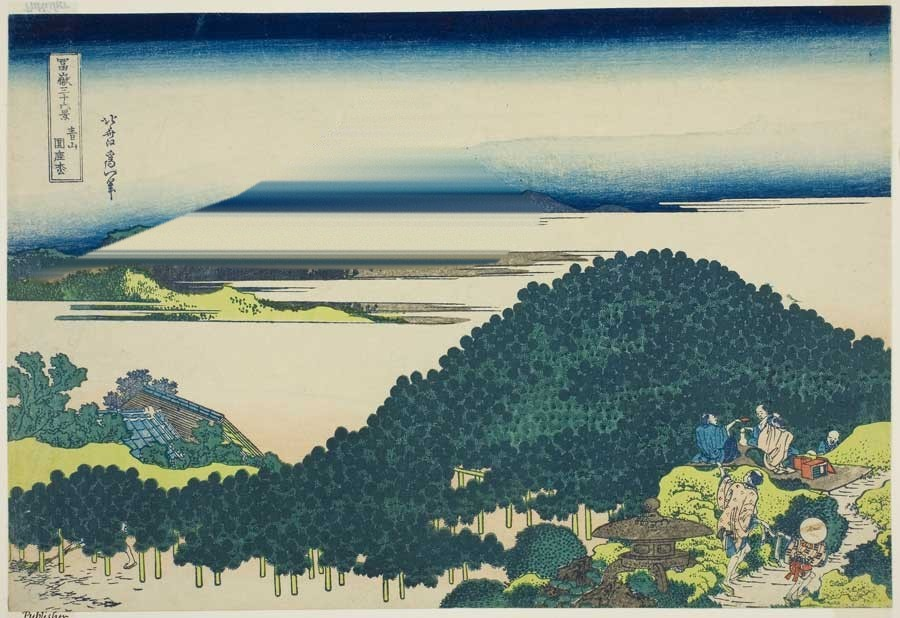
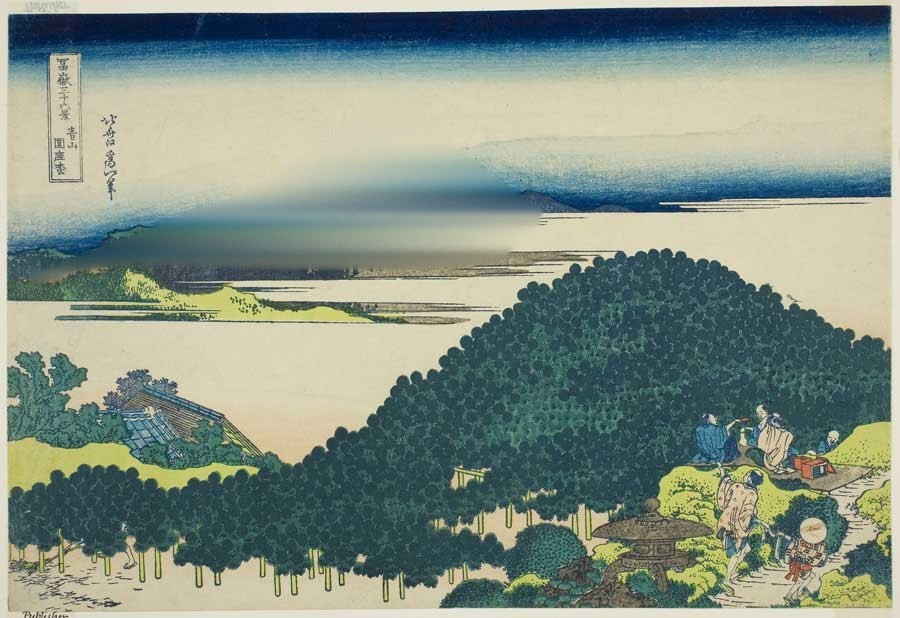
青山円座松の富士山なし画像を作り直し
富士山を消した跡に横すじと、斜面の形をした濃い藍色の帯が残っていた。
空の部分は富士山の左側の空を参照し、右側の境目へ色をなじませ、縦方向にもぼかす。

Claude-Session: https://claude.ai/code/session_01UXdYbpsJYGWvzPKtDgyYVM

Changed region(s): [[0.0933, 0.2767, 0.6222, 0.4304]]

diff --git a/tools/make_nofuji.py b/tools/make_nofuji.py
@@ -33,6 +33,7 @@ ROOT = Path(__file__).resolve().parent.parent
 #   tile:   [x0, x1, y1, ywrap] 空だけが写っている四角の模様を繰り返して埋める
 #           （富士山が画面の大半を占める図）
 #   extra:  ほかに消す多角形のリスト（湖に映った逆さ富士など）
+#   vbands: {"x": [x0, x1], "bands": [[y0, y1, x0, x1], ...]} 行の範囲ごとに参照する列を変える vref
 #   vref:   [x0, x1, (tol), (ymax)] 富士山の横の背景の列を、行ごとに延ばして埋める
 #   side:   "left" / "right" 片側の背景色だけで埋める（左右で背景が違う図）
 #   protect: 消さない多角形のリスト（手前の木の幹など）
@@ -51,7 +52,7 @@ OVERRIDES = {
     "umezawa": {"base": [[0.21, 0.50], [0.35, 0.50], [0.48, 0.48], [0.55, 0.45], [0.60, 0.39], [0.65, 0.34], [0.72, 0.31], [0.82, 0.30]]},
     "totomi": {"base": [[0.217, 0.56], [0.23, 0.60], [0.27, 0.60], [0.301, 0.57]]},
     "mishima": {"protect": [[[0.515, 0.0], [0.630, 0.0], [0.630, 1.0], [0.515, 1.0]]], "join": [1, 2], "base": {1: [[0.585, 0.39], [0.585, 0.52], [0.66, 0.52], [0.74, 0.50], [0.88, 0.515]]}},
-    "aoyama": {"vref": [0.64, 0.70], "base": [[0.04, 0.44], [0.15, 0.42], [0.30, 0.43], [0.45, 0.43], [0.55, 0.42], [0.596, 0.36]]},
+    "aoyama": {"vbands": {"x": [0.56, 0.59], "bands": [[0.0, 0.39, 0.16, 0.22]], "blur": 4, "tol": 400}, "base": [[0.04, 0.44], [0.15, 0.42], [0.30, 0.43], [0.45, 0.43], [0.55, 0.42], [0.596, 0.36]]},
     "enoshima": {"base": [[0.79, 0.53], [0.82, 0.545], [0.88, 0.55], [0.92, 0.535]]},
     "gotenyama": {"base": [[0.415, 0.445], [0.43, 0.455], [0.47, 0.46], [0.50, 0.455]]},
     "hakone": {"base": [[0.15, 0.41], [0.20, 0.425], [0.25, 0.43], [0.30, 0.415]]},
@@ -193,13 +194,17 @@ def fill_tile(img, mask, x0, x1, y1, ywrap):
     return out
 
 
-def fill_vref(img, mask, x0, x1, tol=110.0, ymax=None, sample=4):
+def fill_vref(img, mask, x0, x1, tol=110.0, ymax=None, sample=4, bands=None):
     """マスクされた画素を、富士山の横にある背景の列 [x0, x1) の行ごとの色を元に埋める。
     （空 → 海の帯 → 霞 のような、縦に並んだ背景を延ばす）
     左右の境目の色との差が小さいときはその差を横方向に補間して足し、境目をなじませる。"""
     out = img.astype(np.float32).copy()
     h, w = mask.shape
     prof = np.median(img[:, int(x0 * w):int(x1 * w)].astype(np.float32), axis=1)
+    # bands=[[y0, y1, x0, x1], ...] なら、その行の範囲だけ別の列を参照する
+    for by0, by1, bx0, bx1 in (bands or []):
+        a, b = int(by0 * h), int(by1 * h)
+        prof[a:b] = np.median(img[a:b, int(bx0 * w):int(bx1 * w)].astype(np.float32), axis=1)
     if ymax is not None:
         # ymax より下は空ではないので、ymax の行の色を延ばす
         prof[int(ymax * h):] = prof[int(ymax * h) - 1]
@@ -303,7 +308,12 @@ def make(pid, lines, opt):
             keep = (g - r > 20) & (np.abs(g - b) < 35)
         keep = cv2.dilate(keep.astype(np.uint8), np.ones((3, 3), np.uint8)) > 0
         mask[keep] = 0
-    if "strips" in opt:
+    if "vbands" in opt:
+        vb = opt["vbands"]
+        filled = fill_vref(img, mask, vb["x"][0], vb["x"][1], tol=vb.get("tol", 110.0), bands=vb["bands"])
+        # 行ごとの補間で出る横すじを、縦方向にぼかして目立たなくする
+        smooth = cv2.GaussianBlur(filled, (1, 0), sigmaX=0.1, sigmaY=vb.get("blur", 6))
+    elif "strips" in opt:
         filled = fill_strips(img, mask, *opt["strips"])
         smooth = filled
     elif "vref" in opt:
